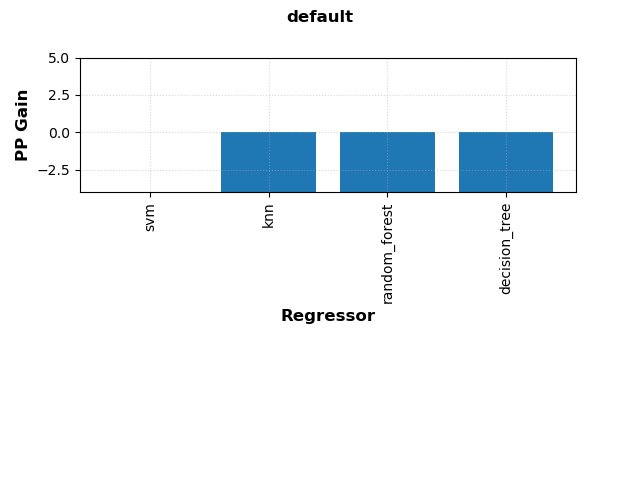
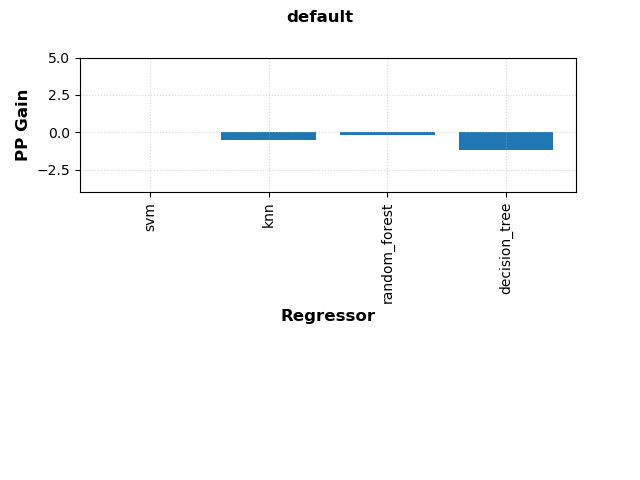
Separating preprocessors computations

Changed region(s): [[0.5312, 0.2812, 0.6875, 0.4062], [0.3438, 0.2812, 0.5, 0.4062], [0.7188, 0.3125, 0.875, 0.4062]]

diff --git a/pre_processing/AENN.py b/pre_processing/AENN.py
@@ -1,0 +1,181 @@
+import sys
+import mysql
+from os import listdir
+from os.path import isfile, join
+import pandas as pd
+import numpy as np
+
+from sklearn import svm, linear_model, discriminant_analysis, neighbors
+from sklearn import tree, naive_bayes, ensemble, neural_network
+from sklearn.model_selection import KFold
+from sklearn import metrics
+from sklearn.metrics import get_scorer
+from sklearn import preprocessing
+from scipy.io import arff as arff_io
+
+from NoiseFiltersPy.AENN import AENN
+
+import constants
+import logging
+import time
+from config import config
+
+from meta_db.db.DBHelper import DBHelper
+
+SCORES = ["recall_micro", "recall_macro", "accuracy", "precision_micro",
+          "precision_macro", "f1_micro", "f1_macro", "fit_time", "score_time"]
+
+SCORERS = {
+    "recall_micro":    lambda y_true, y_pred: metrics.recall_score(y_true, y_pred, average = "micro"),
+    "recall_macro":    lambda y_true, y_pred: metrics.recall_score(y_true, y_pred, average = "macro"),
+    "accuracy":        lambda y_true, y_pred: metrics.accuracy_score(y_true, y_pred),
+    "precision_micro": lambda y_true, y_pred: metrics.precision_score(y_true, y_pred, average = "micro"),
+    "precision_macro": lambda y_true, y_pred: metrics.precision_score(y_true, y_pred, average = "macro"),
+    "f1_micro":        lambda y_true, y_pred: metrics.f1_score(y_true, y_pred, average = "micro"),
+    "f1_macro":        lambda y_true, y_pred: metrics.f1_score(y_true, y_pred, average = "macro")
+}
+
+MODELS = {}
+
+LOG_FILENAME = "preprocesses.log"
+
+logging.basicConfig(filename = LOG_FILENAME, level = logging.DEBUG)
+
+# Creating SVM model using default parameters
+svm_clf = svm.SVC(gamma = "auto")
+MODELS["svm"] = svm_clf # Actually not needed, the cv does the training again
+
+# Creating LogisticRegression model using default parameters
+lg_clf = linear_model.LogisticRegression(random_state = constants.RANDOM_STATE, solver = 'lbfgs', n_jobs = -1)
+MODELS["logistic_regression"] = lg_clf
+
+# Creating Linear Discriminant model using default parameters
+lineardisc_clf = discriminant_analysis.LinearDiscriminantAnalysis()
+MODELS["linear_discriminant"] = lineardisc_clf
+
+# Creating KNN model using default parameters
+neigh_clf = neighbors.KNeighborsClassifier(n_jobs = -1)
+MODELS["kneighbors"] = neigh_clf
+
+# Creating CART model using default parameters
+dectree_clf = tree.DecisionTreeClassifier(random_state = constants.RANDOM_STATE)
+MODELS["decision_tree"] = dectree_clf
+
+# Creating Gaussian Naive Bayes model using default parameters
+gaussian_clf = naive_bayes.GaussianNB()
+MODELS["gaussian_nb"] = gaussian_clf
+
+# Creating Random Forest model using default parameters
+random_forest_clf = ensemble.RandomForestClassifier(n_estimators = 100, n_jobs = -1)
+MODELS["random_forest"] = random_forest_clf
+
+# Creating Gradient Boosting model using default parameters
+gradient_boost_clf = ensemble.GradientBoostingClassifier()
+MODELS["gradient_boosting"] = gradient_boost_clf
+
+# Creating Neual Network model using default parameters
+neural_network_clf = neural_network.MLPClassifier()
+MODELS["neural_network"] = neural_network_clf
+
+
+np.random.seed(constants.RANDOM_STATE)
+
+PRE_PROCESSOR = AENN()
+PRE_PROCESSOR_NAME = "AENN"
+
+datasets = [f for f in listdir(config["dataset"]["folder"])
+                if ( isfile(join(config["dataset"]["folder"], f)) and
+                   ( f.endswith("json") or f.endswith("arff") ) )]
+
+divideFold = KFold(10, random_state = constants.RANDOM_STATE, shuffle = True)
+
+db = DBHelper()
+le = preprocessing.LabelEncoder()
+for dataset in datasets:
+    name = dataset[:-5]
+    print("[{}]".format(name))
+    if dataset.endswith("json"):
+        data = pd.read_json(config["dataset"]["folder"] + dataset)
+    elif dataset.endswith("arff"):
+        data = arff_io.loadarff(config["dataset"]["folder"] + dataset)
+        data = pd.DataFrame(data[0])
+    target = data["class"].values
+    if target.dtype == np.object:
+        le.fit(target)
+        target = le.transform(target)
+    values = data.drop("class", axis = 1)
+    # Check if any is a string, some classifiers only deals with numeric data
+    for dtype, key in zip(values.dtypes, values.keys()):
+        if dtype == np.object:
+            le.fit(values[key].values)
+            values[key] = le.transform(values[key].values)
+    values = values.values
+
+    cv_results = {}
+    for model in MODELS.keys():
+        cv_results[model] = {}
+        for score in SCORES:
+            cv_results[model][score] = []
+
+    for train_indx, test_indx in divideFold.split(values):
+        try:
+            filter = PRE_PROCESSOR(values[train_indx], target[train_indx])
+        except (RuntimeError, ValueError) as err:
+            print("\t\tCould not perform preprocessing. {}".format(err))
+            logging.info("Could not perform preprocessing. [{}, {}, {}]".format(name, model, PRE_PROCESSOR_NAME))
+            logging.error(err)
+            continue
+        except:
+            print("\t\tCould not perform preprocessing!")
+            continue
+        new_values = filter.cleanData
+        new_target = filter.cleanClasses
+
+        for model in MODELS.keys():
+            print("\t[{}] Calculating scores for model {}".format(name, model))
+            combination_id = db.get_combination(model, PRE_PROCESSOR_NAME)[0]
+            print("\t\tUsing preprocessor {}.".format(PRE_PROCESSOR_NAME))
+            if (name, combination_id) in db.get_preperformance_done():
+                print("\tAlready done! Skiping...")
+                continue
+
+            try:
+                start_fit = time.time()
+                clf = MODELS[model].fit(new_values, new_target)
+                stop_fit = time.time()
+                cv_results[model]["fit_time"].append(stop_fit - start_fit)
+                target_pred = target[test_indx]
+                start_score = time.time()
+                target_pred = clf.predict(values[test_indx])
+                stop_score = time.time()
+                cv_results[model]["score_time"].append(stop_score - start_score)
+            except Exception as err:
+                logging.debug("Could not execute fit of dataset {} with classifier {} and {}.". format(name, model, PRE_PROCESSOR_NAME))
+                logging.error(err)
+                continue
+            for score in SCORES[:-2]:
+                scorer = SCORERS[score]
+                res = scorer(target[test_indx], target_pred)
+                cv_results[model][score].append(res)
+
+    for model in MODELS.keys():
+        print("\t[{}] FINISHING scores for model {}".format(name, model))
+        results = []; result_labels = [];
+        result_labels.append("name"); results.append(name);
+        combination_id = db.get_combination(model, PRE_PROCESSOR_NAME)[0]
+        result_labels.append("combination_id"); results.append(combination_id);
+        for rlabel in cv_results.keys():
+            if rlabel.startswith("test"):
+                rlabel_db = rlabel[5:]
+            else:
+                rlabel_db = rlabel
+            result_labels.append(rlabel_db + "_mean")
+            results.append(np.mean(cv_results[rlabel]))
+            result_labels.append(rlabel_db + "_std")
+            results.append(np.std(cv_results[rlabel]))
+        partial_res = np.array(results[1:]); result_labels = np.array(result_labels)
+        if np.any(np.isnan(partial_res)):
+            not_nan = np.insert(~np.isnan(partial_res), 0, True, axis = 0)
+            results = np.array(results)[not_nan].tolist()
+            result_labels = result_labels[not_nan].tolist()
+        db.add_preperformance_record(result_labels, results)

diff --git a/analysis/preproc_gain.py b/analysis/preproc_gain.py
@@ -120,12 +120,7 @@ for baseline in ["random", "default"]:
                 max_pred_pp = predicted_dataset[predicted_dataset[SCORE] == predicted_dataset[SCORE].max()].max()[SCORE]
                 baseline_dataset = dataset_info[dataset_info["preprocesses"] == pp_base]
                 max_base_pp = baseline_dataset[baseline_dataset[SCORE] == baseline_dataset[SCORE].max()].max()[SCORE]
-                if (pp_pred == pp_base):
-                    results[baseline][regressor_type].append(0)
-                elif (max_pred_pp > max_base_pp):
-                    results[baseline][regressor_type].append(1)
-                else:
-                    results[baseline][regressor_type].append(-1)
+                results[baseline][regressor_type].append(max_pred_pp - max_base_pp)
             kfold += 1
 
 def histogram(baseline = 'default'):
